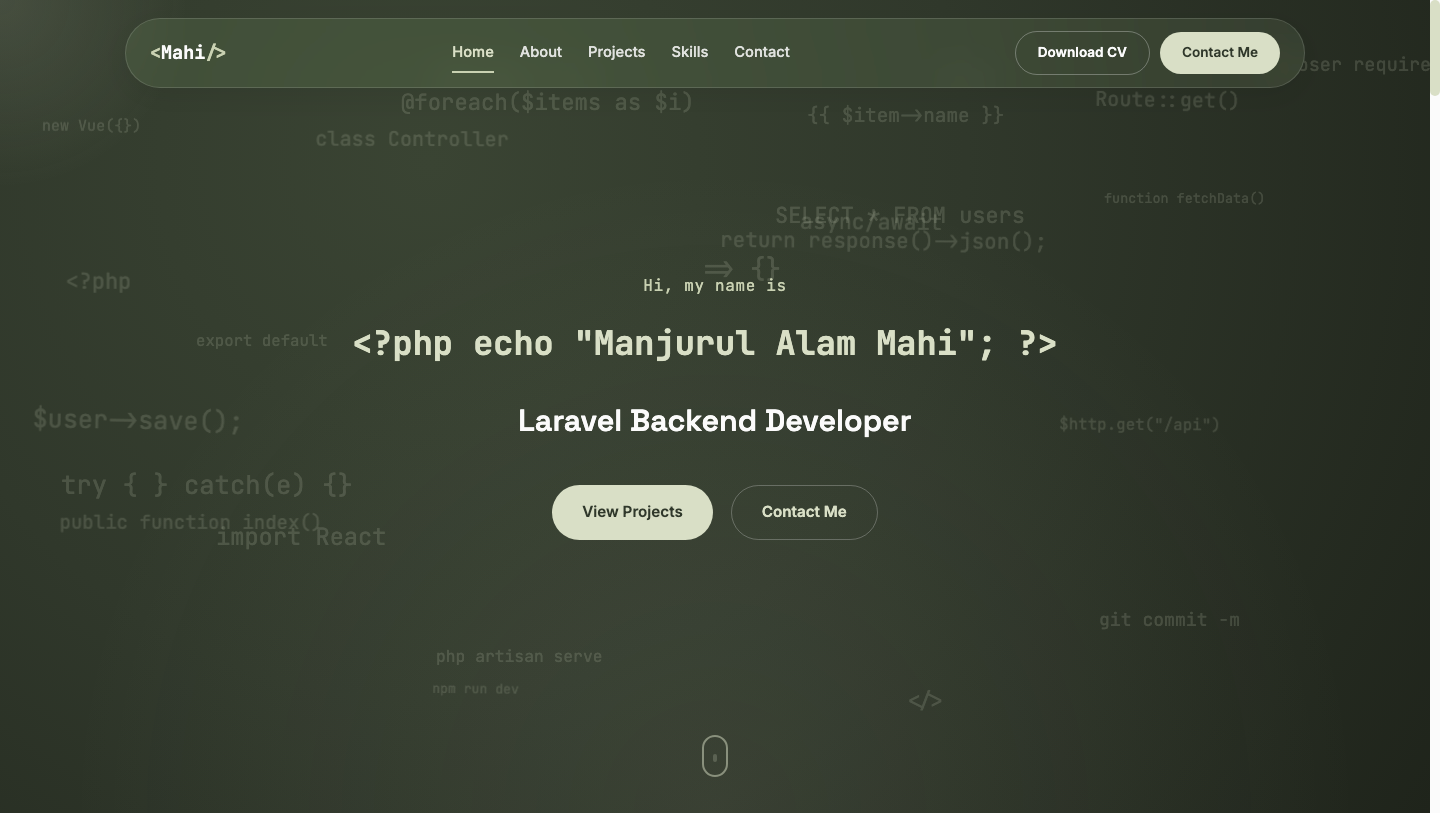
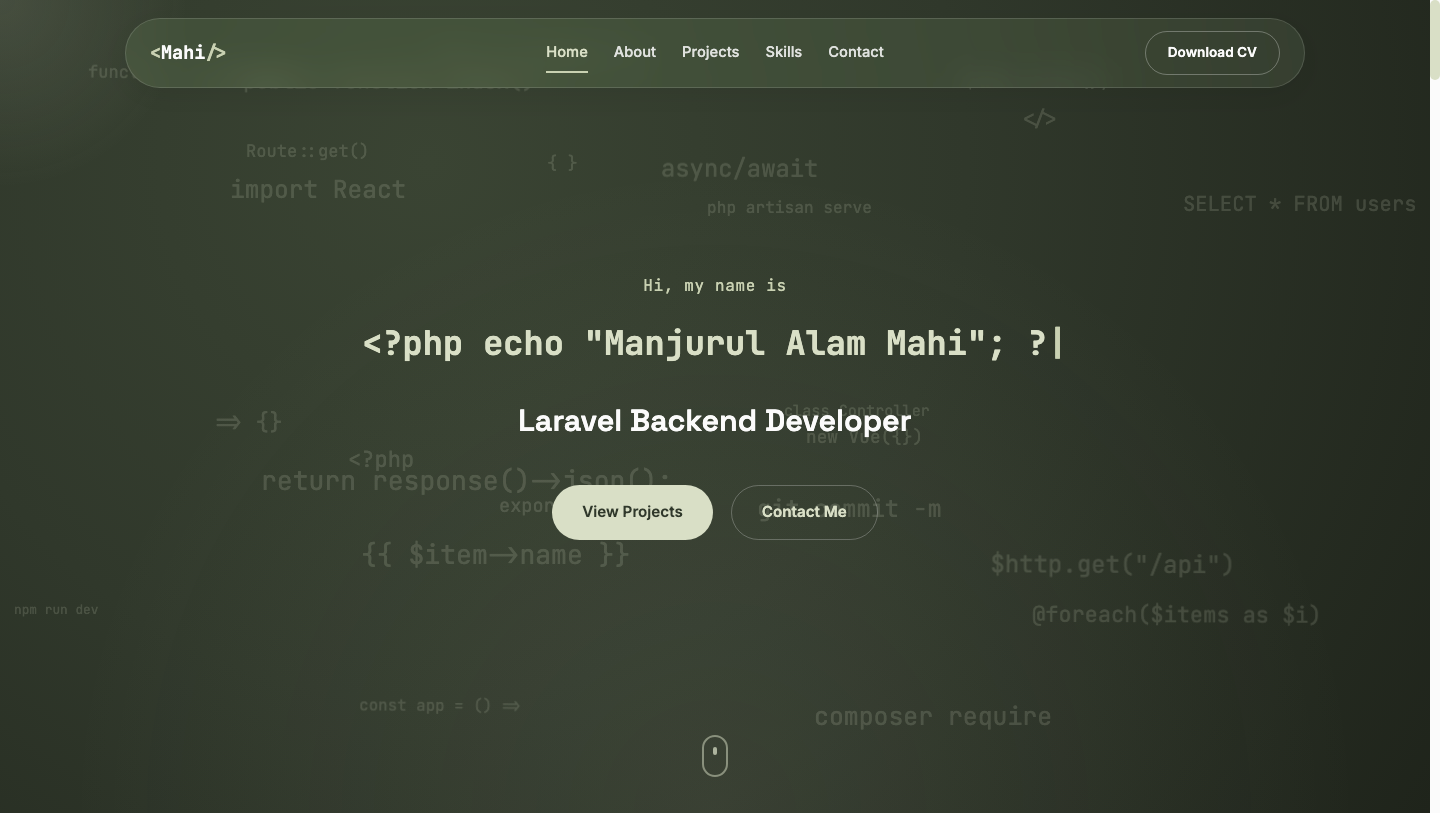
Refactor project display structure and update project details in HTML

diff --git a/index.html b/index.html
@@ -182,111 +182,144 @@
       <p class="section-eyebrow reveal center">My Work</p>
       <h2 class="section-title reveal center">Projects</h2>
 
-      <div class="projects__grid">
+      <div class="projects__list">
 
-        <article class="project-card reveal" data-delay="0">
-          <div class="project-card__thumb">
+        <article class="project-row reveal">
+          <div class="project-row__thumb">
             <img src="assets/images/projects/nayon-telecom.svg"
               alt="Nayon Telecom eCommerce Platform desktop screenshot" loading="lazy">
           </div>
-          <div class="project-card__body">
+          <div class="project-row__body">
             <h3>Nayon Telecom eCommerce Platform</h3>
-            <p>Full-featured eCommerce platform with product browsing, authentication, guest checkout and smart product
-              suggestions.</p>
-            <div class="project-card__stack">
-              <span>Laravel</span><span>Blade</span><span>MySQL</span><span>SSLCommerz</span>
+            <p>Full-featured eCommerce platform with product browsing, authentication, guest checkout and smart
+              product suggestions &mdash; expanded into blog &amp; repair-service platforms on a shared Laravel
+              architecture.</p>
+            <div class="project-row__stack">
+              <span>Laravel</span><span>Blade</span><span>PHP</span><span>MySQL</span><span>SSLCommerz</span>
             </div>
-            <a href="https://nayontelecom.com.bd" target="_blank" rel="noopener" class="project-card__link">
-              Visit Live Site <i class="fa-solid fa-arrow-up-right-from-square"></i>
-            </a>
+            <div class="project-row__links">
+              <a href="https://nayontelecom.com.bd" target="_blank" rel="noopener" class="project-row__link">
+                Visit Live Site <i class="fa-solid fa-arrow-up-right-from-square"></i>
+              </a>
+              <span class="project-row__link project-row__link--soon">
+                View Details <span class="soon-badge">Coming Soon</span>
+              </span>
+            </div>
           </div>
         </article>
 
-        <article class="project-card reveal" data-delay="1">
-          <div class="project-card__thumb">
+        <article class="project-row reveal">
+          <div class="project-row__thumb">
             <img src="assets/images/projects/alyssis.svg"
               alt="Alyssis Mindfulness and Travel Platform desktop screenshot" loading="lazy">
           </div>
-          <div class="project-card__body">
+          <div class="project-row__body">
             <h3>Alyssis &mdash; Mindfulness &amp; Travel Platform</h3>
-            <p>A productivity and mindfulness REST API helping users manage daily routines, journaling and travel
-              planning.</p>
-            <div class="project-card__stack">
-              <span>Laravel</span><span>REST API</span><span>Firebase</span>
+            <p>A productivity and mindfulness REST API helping users manage daily routines, reflective journaling
+              and travel planning in a single application.</p>
+            <div class="project-row__stack">
+              <span>Laravel</span><span>REST API</span><span>MySQL</span><span>Firebase</span><span>Flutter APIs</span>
             </div>
-            <a href="#" target="_blank" rel="noopener" class="project-card__link">
-              GitHub Repository <i class="fa-solid fa-arrow-up-right-from-square"></i>
-            </a>
+            <div class="project-row__links">
+              <a href="#" target="_blank" rel="noopener" class="project-row__link">
+                GitHub Repository <i class="fa-solid fa-arrow-up-right-from-square"></i>
+              </a>
+              <span class="project-row__link project-row__link--soon">
+                View Details <span class="soon-badge">Coming Soon</span>
+              </span>
+            </div>
           </div>
         </article>
 
-        <article class="project-card reveal" data-delay="2">
-          <div class="project-card__thumb">
+        <article class="project-row reveal">
+          <div class="project-row__thumb">
             <img src="assets/images/projects/sunfix.svg" alt="SUNFIX Beach Service Platform desktop screenshot"
               loading="lazy">
           </div>
-          <div class="project-card__body">
+          <div class="project-row__body">
             <h3>SUNFIX Beach Service Platform</h3>
-            <p>Multi-platform beach service system with customer apps and web panels for providers, owners and admins.
-            </p>
-            <div class="project-card__stack">
-              <span>Laravel</span><span>Docker</span><span>Stripe</span>
+            <p>Multi-platform beach service system with customer mobile apps and web panels for providers,
+              owners and admins &mdash; booking, ordering and real-time notifications.</p>
+            <div class="project-row__stack">
+              <span>Laravel</span><span>Docker</span><span>Stripe</span><span>Firebase</span><span>Google Cloud</span>
             </div>
-            <a href="#" target="_blank" rel="noopener" class="project-card__link">
-              Live Demo <i class="fa-solid fa-arrow-up-right-from-square"></i>
-            </a>
+            <div class="project-row__links">
+              <a href="#" target="_blank" rel="noopener" class="project-row__link">
+                Live Demo <i class="fa-solid fa-arrow-up-right-from-square"></i>
+              </a>
+              <span class="project-row__link project-row__link--soon">
+                View Details <span class="soon-badge">Coming Soon</span>
+              </span>
+            </div>
           </div>
         </article>
 
-        <article class="project-card reveal" data-delay="0">
-          <div class="project-card__thumb">
+        <article class="project-row reveal">
+          <div class="project-row__thumb">
             <img src="assets/images/projects/insaf.svg"
               alt="Insaf Diagnostic and Consultation Centre desktop screenshot" loading="lazy">
           </div>
-          <div class="project-card__body">
+          <div class="project-row__body">
             <h3>Insaf Diagnostic &amp; Consultation Centre</h3>
-            <p>Diagnostic center management platform with doctor management, patient appointment booking and scheduling.
-            </p>
-            <div class="project-card__stack">
-              <span>Laravel</span><span>Blade</span><span>MySQL</span>
+            <p>A diagnostic center management platform with doctor management, patient appointment booking,
+              scheduling and medical service management.</p>
+            <div class="project-row__stack">
+              <span>Laravel</span><span>Blade</span><span>PHP</span><span>MySQL</span><span>Bootstrap</span>
             </div>
-            <a href="https://insafdacc-bd.com/" target="_blank" rel="noopener" class="project-card__link">
-              Visit Live Site <i class="fa-solid fa-arrow-up-right-from-square"></i>
-            </a>
+            <div class="project-row__links">
+              <a href="https://insafdacc-bd.com/" target="_blank" rel="noopener" class="project-row__link">
+                Visit Live Site <i class="fa-solid fa-arrow-up-right-from-square"></i>
+              </a>
+              <span class="project-row__link project-row__link--soon">
+                View Details <span class="soon-badge">Coming Soon</span>
+              </span>
+            </div>
           </div>
         </article>
 
-        <article class="project-card reveal" data-delay="1">
-          <div class="project-card__thumb">
+        <article class="project-row reveal">
+          <div class="project-row__thumb">
             <img src="assets/images/projects/booking-nest.svg"
               alt="The Booking Nest Service Booking Platform desktop screenshot" loading="lazy">
           </div>
-          <div class="project-card__body">
+          <div class="project-row__body">
             <h3>The Booking Nest</h3>
-            <p>Multi-platform service booking system with real-time chat, custom requests and Stripe payments.</p>
-            <div class="project-card__stack">
-              <span>Laravel</span><span>Reverb</span><span>Stripe</span>
+            <p>Multi-platform service booking system with mobile and web apps for customers and providers &mdash;
+              booking, custom requests, real-time chat and payments.</p>
+            <div class="project-row__stack">
+              <span>Laravel</span><span>Reverb</span><span>Stripe</span><span>Firebase</span><span>REST API</span>
             </div>
-            <a href="#" target="_blank" rel="noopener" class="project-card__link">
-              GitHub Repository <i class="fa-solid fa-arrow-up-right-from-square"></i>
-            </a>
+            <div class="project-row__links">
+              <a href="#" target="_blank" rel="noopener" class="project-row__link">
+                GitHub Repository <i class="fa-solid fa-arrow-up-right-from-square"></i>
+              </a>
+              <span class="project-row__link project-row__link--soon">
+                View Details <span class="soon-badge">Coming Soon</span>
+              </span>
+            </div>
           </div>
         </article>
 
-        <article class="project-card reveal" data-delay="2">
-          <div class="project-card__thumb">
+        <article class="project-row reveal">
+          <div class="project-row__thumb">
             <img src="assets/images/projects/imageworld.svg" alt="ImageWorld Service Platform desktop screenshot"
               loading="lazy">
           </div>
-          <div class="project-card__body">
+          <div class="project-row__body">
             <h3>ImageWorld Service Platform</h3>
-            <p>A service platform connecting users with graphic designers, optimized for SEO and performance.</p>
-            <div class="project-card__stack">
-              <span>Laravel</span><span>Blade</span><span>JavaScript</span>
+            <p>A service-based platform connecting users with graphic designers for custom image editing,
+              optimized for SEO, mobile responsiveness and performance.</p>
+            <div class="project-row__stack">
+              <span>Laravel</span><span>Blade</span><span>PHP</span><span>MySQL</span><span>JavaScript</span>
             </div>
-            <a href="https://imageworld24.com/" target="_blank" rel="noopener" class="project-card__link">
-              Visit Live Site <i class="fa-solid fa-arrow-up-right-from-square"></i>
-            </a>
+            <div class="project-row__links">
+              <a href="https://imageworld24.com/" target="_blank" rel="noopener" class="project-row__link">
+                Visit Live Site <i class="fa-solid fa-arrow-up-right-from-square"></i>
+              </a>
+              <span class="project-row__link project-row__link--soon">
+                View Details <span class="soon-badge">Coming Soon</span>
+              </span>
+            </div>
           </div>
         </article>
 

diff --git a/css/style.css b/css/style.css
@@ -123,9 +123,9 @@ button { font: inherit; cursor: pointer; border: none; background: none; }
   transition: var(--transition);
 }
 .navbar__inner {
-  display: flex;
+  display: grid;
+  grid-template-columns: 1fr auto 1fr;
   align-items: center;
-  justify-content: space-between;
   gap: 20px;
   padding: 12px 24px;
   border-radius: 100px;
@@ -147,6 +147,7 @@ button { font: inherit; cursor: pointer; border: none; background: none; }
   color: var(--accent-nav, #FBFBFB);
   transition: color var(--transition);
   flex-shrink: 0;
+  justify-self: start;
 }
 .navbar.scrolled .navbar__logo { color: var(--dark); }
 .logo-bracket { color: var(--hover); }
@@ -157,7 +158,7 @@ button { font: inherit; cursor: pointer; border: none; background: none; }
 .navbar__nav {
   display: flex;
   gap: 26px;
-  margin: 0 auto;
+  justify-self: center;
 }
 .nav-link {
   font-size: 0.92rem;
@@ -181,7 +182,7 @@ button { font: inherit; cursor: pointer; border: none; background: none; }
 .navbar.scrolled .nav-link:hover, .navbar.scrolled .nav-link.active { color: var(--dark); }
 .nav-link:hover::after, .nav-link.active::after { width: 100%; }
 
-.navbar__actions { display: flex; align-items: center; gap: 10px; flex-shrink: 0; }
+.navbar__actions { display: flex; align-items: center; gap: 10px; flex-shrink: 0; justify-self: end; }
 .navbar__cta { flex-shrink: 0; background: var(--accent); color: var(--dark); }
 .navbar__cta:hover { background: var(--hover); transform: translateY(-2px); }
 
@@ -460,74 +461,81 @@ button { font: inherit; cursor: pointer; border: none; background: none; }
 .service-card p { color: var(--text-secondary); font-size: 0.95rem; }
 
 /* ==========================================================================
-   PROJECTS (card grid)
+   PROJECTS (full-width stacked rows)
    ========================================================================== */
 .projects { background: var(--bg); }
-.projects__grid {
-  display: grid;
-  grid-template-columns: repeat(3, 1fr);
-  gap: 30px;
-}
-.project-card {
+.projects__list {
   display: flex;
   flex-direction: column;
+  gap: 34px;
+}
+.project-row {
+  display: grid;
+  grid-template-columns: 1fr 1fr;
+  gap: 50px;
+  align-items: center;
   background: var(--surface);
   border: 1px solid var(--border);
   border-radius: var(--radius);
-  overflow: hidden;
+  padding: 30px;
   transition: var(--transition);
 }
-.project-card:hover {
-  transform: translateY(-8px);
+.project-row:hover {
   border-color: var(--hover);
-  box-shadow: 0 20px 40px rgba(48,56,43,0.1);
+  box-shadow: 0 20px 40px rgba(48,56,43,0.08);
 }
-.project-card__thumb {
+.project-row__thumb {
   aspect-ratio: 16 / 10;
   overflow: hidden;
+  border-radius: 12px;
+  border: 1px solid var(--border);
   background: var(--bg);
-  border-bottom: 1px solid var(--border);
 }
-.project-card__thumb img {
+.project-row__thumb img {
   width: 100%; height: 100%;
   object-fit: cover;
   transition: transform 0.5s ease;
 }
-.project-card:hover .project-card__thumb img { transform: scale(1.06); }
+.project-row:hover .project-row__thumb img { transform: scale(1.05); }
 
-.project-card__body { padding: 26px; display: flex; flex-direction: column; flex: 1; }
-.project-card__body h3 {
+.project-row__body h3 {
   font-family: var(--font-heading);
-  font-size: 1.12rem;
+  font-size: clamp(1.2rem, 2vw, 1.5rem);
   color: var(--dark);
-  margin-bottom: 10px;
+  margin-bottom: 14px;
 }
-.project-card__body p {
-  color: var(--text-secondary);
-  font-size: 0.92rem;
-  margin-bottom: 18px;
-  flex: 1;
-}
-.project-card__stack { display: flex; flex-wrap: wrap; gap: 8px; margin-bottom: 20px; }
-.project-card__stack span {
+.project-row__body p { color: var(--text-secondary); margin-bottom: 20px; }
+.project-row__stack { display: flex; flex-wrap: wrap; gap: 8px; margin-bottom: 22px; }
+.project-row__stack span {
   font-family: var(--font-mono);
-  font-size: 0.72rem;
-  padding: 5px 12px;
+  font-size: 0.76rem;
+  padding: 5px 14px;
   border-radius: 100px;
   background: var(--bg);
   border: 1px solid var(--border);
   color: var(--text-secondary);
 }
-.project-card__link {
+.project-row__links { display: flex; align-items: center; gap: 22px; flex-wrap: wrap; }
+.project-row__link {
   display: inline-flex;
   align-items: center;
   gap: 8px;
   font-weight: 600;
-  font-size: 0.88rem;
+  font-size: 0.92rem;
   color: var(--dark);
 }
-.project-card__link i { font-size: 0.76rem; transition: transform 0.3s ease; }
-.project-card__link:hover i { transform: translate(2px, -2px); }
+.project-row__link i { font-size: 0.78rem; transition: transform 0.3s ease; }
+.project-row__link:hover i { transform: translate(2px, -2px); }
+.project-row__link--soon { color: var(--text-muted); cursor: not-allowed; }
+.soon-badge {
+  font-family: var(--font-mono);
+  font-size: 0.66rem;
+  font-weight: 600;
+  padding: 3px 10px;
+  border-radius: 100px;
+  background: var(--accent);
+  color: var(--dark);
+}
 
 /* ==========================================================================
    SKILLS
@@ -716,11 +724,12 @@ button { font: inherit; cursor: pointer; border: none; background: none; }
   .services__grid { grid-template-columns: repeat(2, 1fr); }
   .skills__grid, .timeline-grid { grid-template-columns: 1fr; gap: 50px; }
   .contact__grid { grid-template-columns: repeat(2, 1fr); }
-  .projects__grid { grid-template-columns: repeat(2, 1fr); }
+  .project-row { grid-template-columns: 1fr; gap: 26px; }
   .skill-icon-grid { grid-template-columns: repeat(4, 1fr); }
 }
 
 @media (max-width: 720px) {
+  .navbar__inner { display: flex; justify-content: space-between; }
   .navbar__menu-wrap { display: none; }
   .navbar.nav-open .navbar__menu-wrap {
     display: flex;
@@ -755,7 +764,7 @@ button { font: inherit; cursor: pointer; border: none; background: none; }
   .contact__grid { grid-template-columns: 1fr; }
   .about__avatar-wrap { width: 250px; height: 250px; }
 
-  .projects__grid { grid-template-columns: 1fr; }
+  .project-row { padding: 18px; }
   .skill-icon-grid { grid-template-columns: repeat(3, 1fr); }
   .achievement-card { flex-direction: column; text-align: center; }
 }
